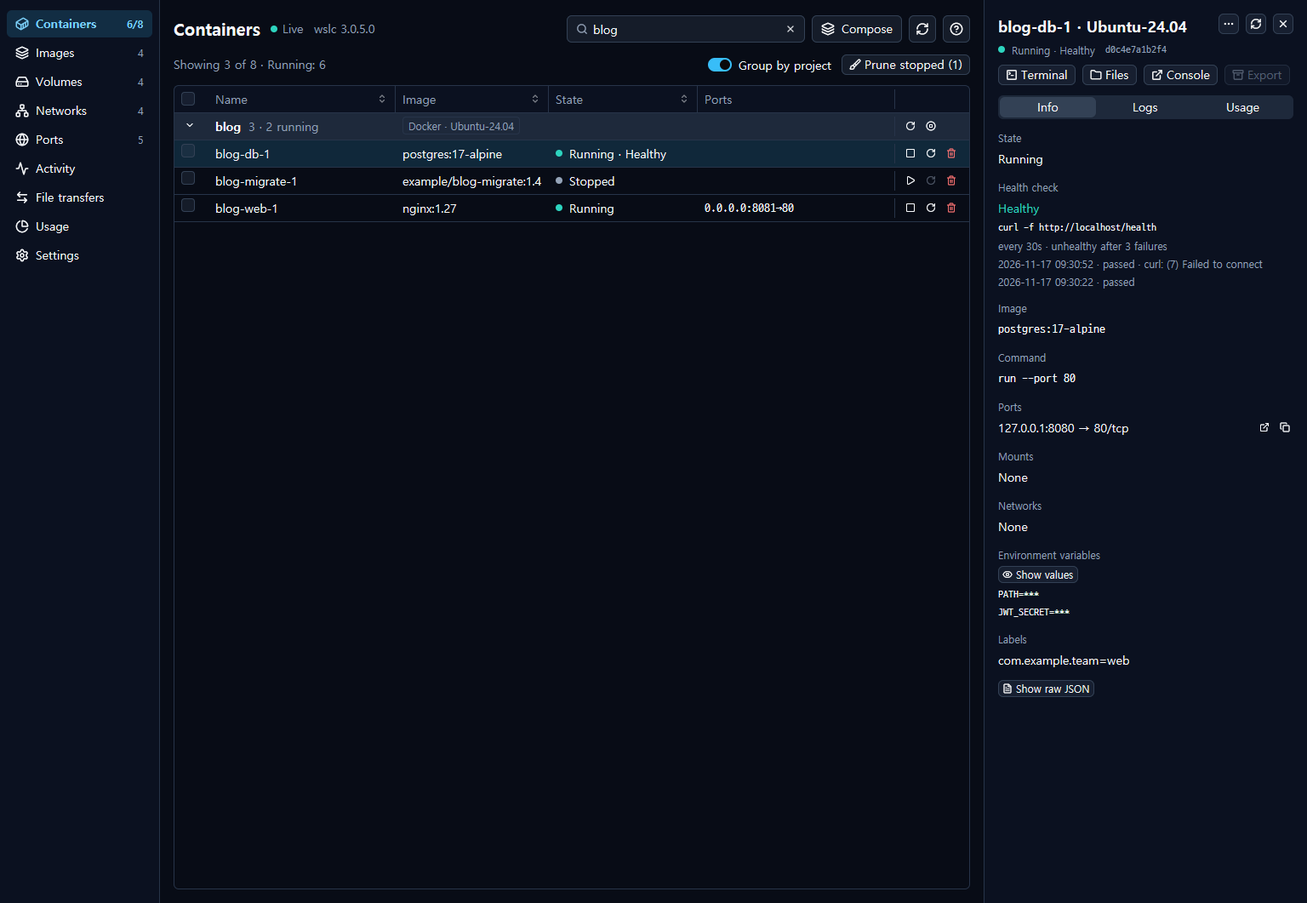
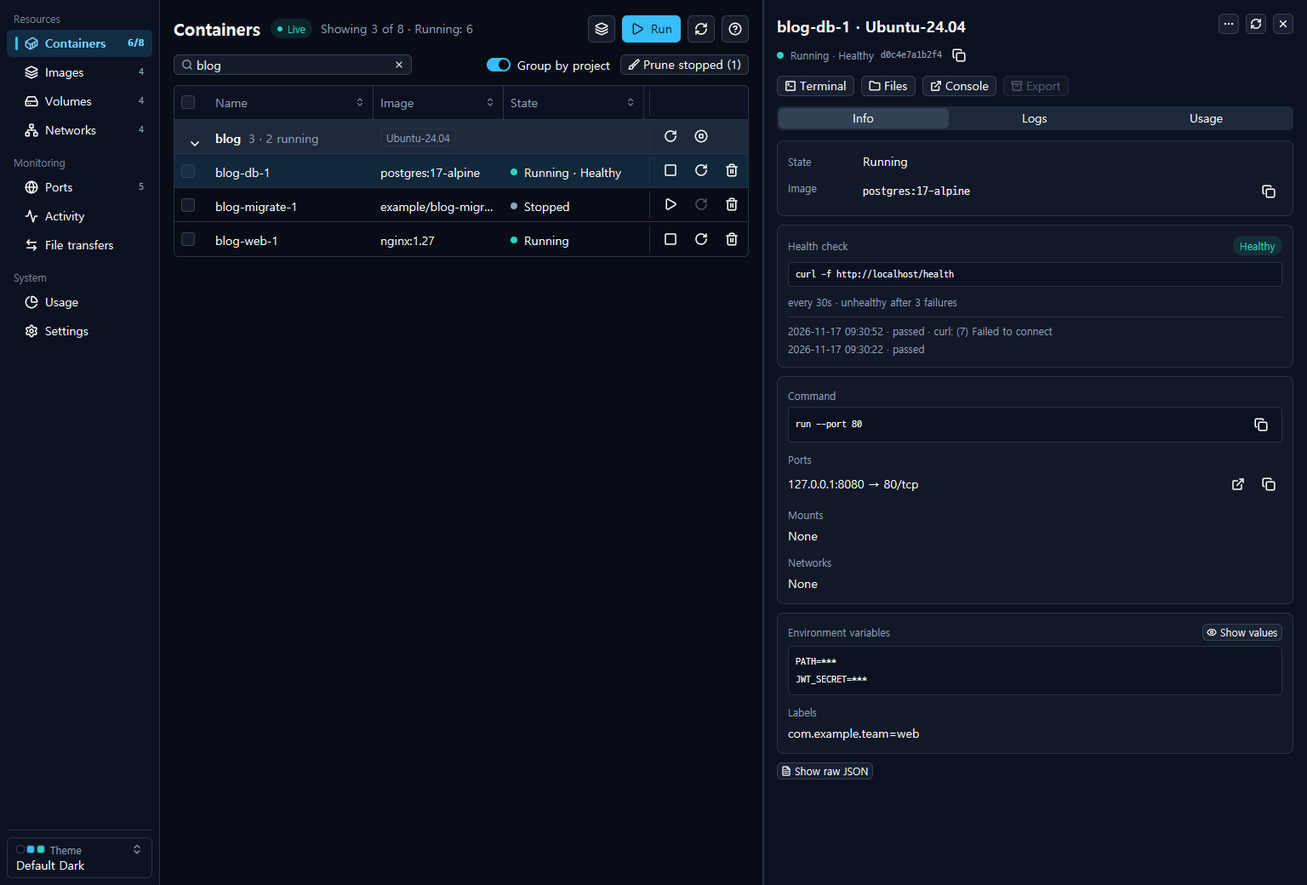
feat: refresh Haven Desktop screenshots and copy for the current app
Recapture the product screenshots (containers, files) and the ten
containers-help step images (EN/KO) from the current build: larger row
buttons, engine badges including wslc, the Run button, arrow-only
transfer buttons and the card-style details panel. Sample data stays on
the blog project; logs and usage come from a throwaway haven-uitest
container on a real wslc engine, removed afterwards.

Update the copy to match: Run button, wslc badge, resizable details
closed with Esc, arrow transfer buttons and the 15 color themes. Image
sizes follow the new captures (1536x1040 product shots).

diff --git a/src/haven-help/content.ts b/src/haven-help/content.ts
@@ -164,15 +164,15 @@ export const havenHelpContent: Record<HavenHelpLanguage, HavenHelpPageContent> =
               { id: "resources", title: "Images, volumes, and networks", body: "Browse images, volumes, and networks and remove resources you no longer need." },
               { id: "compose", title: "Compose projects", body: "Use a Compose file to start or stop a group of containers. Some Compose settings aren't supported." },
               { id: "files-shell", title: "Files and container shells", body: "Transfer files between Windows and containers and open a shell in a container." },
-              { id: "settings-diagnostics", title: "Settings and diagnostics", body: "Change app settings and prepare a copy of the diagnostic log to send to support." },
+              { id: "settings-diagnostics", title: "Settings and diagnostics", body: "Choose a color theme (5 light and 10 dark themes, or follow Windows), change app settings, and prepare a copy of the diagnostic log to send to support." },
             ],
           },
-          { id: "file-transfer-controls", type: "note", title: "Upload and download files", text: "In the file transfer window, select “→ Upload” to copy files from Windows to the container, or select “← Download” to copy them back. If files with the same names are already in the container, choose which ones to overwrite, then select “Upload N”, where N is the number of files to upload." },
+          { id: "file-transfer-controls", type: "note", title: "Upload and download files", text: "In the file transfer window, select the → button between the two lists to copy files from Windows to the container (upload), or the ← button to copy them back (download). Point at a button to see what it does. If files with the same names are already in the container, choose which ones to overwrite, then select “Upload N”, where N is the number of files to upload." },
           { id: "image-removal-guard", type: "warning", title: "Removing an image in use", text: "Haven won't remove an image that a container uses unless you select “Force remove even if containers use it” in the confirmation dialog." },
           { id: "tray-settings", type: "note", title: "Tray and startup settings", text: "In Haven Settings, turn on “Hide to the notification area (tray) when the window is closed” to keep the app running after you close its window. To start Haven without opening a window, turn on “Start at Windows sign-in (in the tray, no window)”. For the Microsoft Store version, open Windows Settings, select Apps, then select Startup to manage automatic startup instead." },
         ],
         sourceRefs: ["README.md#features", "README.md#where-the-app-keeps-its-files", "README.md#feedback-and-security", "README.md#disclaimer", "CHANGELOG.md#added"],
-        lastReviewedRevision: "75f2752cb4c7c2b8b674b252f0ff48c812ab4211",
+        lastReviewedRevision: "0a7cd9920a7521a1b68ddadde07607c60a79c23f",
       },
       {
         id: "containers-logs",
@@ -187,7 +187,7 @@ export const havenHelpContent: Record<HavenHelpLanguage, HavenHelpPageContent> =
             items: [
               { id: "wslc-ready", title: "wslc 3.0.5 or later", body: "Haven uses the wslc installation on your PC. If it's missing or older than 3.0.5, the app shows setup instructions." },
               { id: "container-list", title: "Container list", body: "Select the container you want to manage. The list includes stopped containers." },
-              { id: "docker-engine", title: "Docker Engine in WSL (optional)", body: "To manage containers from a Docker Engine in WSL, open Settings, select Docker engines, and enable the distribution. Its containers appear in the same list, marked with the distribution name. Docker Desktop is not supported." },
+              { id: "docker-engine", title: "Docker Engine in WSL (optional)", body: "To manage containers from a Docker Engine in WSL, open Settings, select Docker engines, and enable the distribution. Its containers appear in the same list, marked with the distribution name, and wslc containers are marked “wslc”. Docker Desktop is not supported." },
             ],
           },
           {
@@ -195,22 +195,22 @@ export const havenHelpContent: Record<HavenHelpLanguage, HavenHelpPageContent> =
             type: "steps",
             title: "Work with a container",
             items: [
-              { id: "find", title: "Find a container", body: "Open Containers. The list updates automatically. Use the “Search by name, image, state, group” field to find a container, or turn on “Group by project” to see related containers together.", image: { src: "/assets/products/haven-help/containers-find-en.png", alt: "Top of the Containers page with the search box and the Group by project switch outlined, above the containers of the blog project.", width: 1092, height: 262, caption: "Search the list, or group it by project." } },
-              { id: "control", title: "Start, stop, restart, or force-stop a container", body: "Use the buttons in a container's row to start, stop, restart, or remove it. To force-stop a container, even if it's the only one, check its box in the list, then select “Kill” on the selection bar.", image: { src: "/assets/products/haven-help/containers-control-en.png", alt: "Two selected containers. The selection bar above the list, with Start, Stop, Restart, Kill, Remove, and Clear selection, is outlined, and so are the stop, restart, and remove buttons at the end of each row.", width: 1092, height: 252, caption: "Row buttons act on one container; the selection bar acts on every checked container." } },
-              { id: "logs", title: "View live logs", body: "Open the container details and select Logs. Turn on “Follow” to see new lines as they arrive. Use “Search logs” to find a line. You can also copy the output or save it to a file.", image: { src: "/assets/products/haven-help/containers-logs-en.png", alt: "Logs tab of a running container, outlined along with the toolbar below it (Search logs box and the Follow, Timestamps, Copy, Save, and Clear buttons). Follow is on and timestamped INFO and WARN lines fill the view.", width: 640, height: 470, caption: "With Follow on, new lines appear as they arrive." } },
-              { id: "usage", title: "Check resource usage", body: "Select Usage in the container details to see current and recent CPU and memory usage.", image: { src: "/assets/products/haven-help/containers-usage-en.png", alt: "Usage tab of a running container. The tab and the CPU and Memory areas are outlined: CPU at 33.47% and memory at 3 MiB, each with a small chart of recent samples, followed by network, disk, and process counts.", width: 380, height: 560, caption: "Current CPU and memory, with the last few samples as a chart." } },
+              { id: "find", title: "Find a container", body: "Open Containers. The list updates automatically. Use the “Search by name, image, state, group” field to find a container, or turn on “Group by project” to see related containers together.", image: { src: "/assets/products/haven-help/containers-find-en.png", alt: "Top of the Containers page with the search box and the Group by project switch outlined, above the containers of the blog project.", width: 1096, height: 294, caption: "Search the list, or group it by project." } },
+              { id: "control", title: "Start, stop, restart, or force-stop a container", body: "To start a new container, select “Run” at the top right and enter an image. Use the buttons in a container's row to start, stop, restart, or remove it. To force-stop a container, even if it's the only one, check its box in the list, then select “Kill” on the selection bar.", image: { src: "/assets/products/haven-help/containers-control-en.png", alt: "Two selected containers. The selection bar above the list, with Start, Stop, Restart, Kill, Remove, and Clear selection, is outlined, and so are the stop, restart, and remove buttons at the end of each row.", width: 1096, height: 250, caption: "Row buttons act on one container; the selection bar acts on every checked container." } },
+              { id: "logs", title: "View live logs", body: "Open the container details and select Logs. Turn on “Follow” to see new lines as they arrive. Use “Search logs” to find a line. You can also copy the output or save it to a file. Drag the left edge of the details to resize them, and press Esc to close them.", image: { src: "/assets/products/haven-help/containers-logs-en.png", alt: "Logs tab of a running container, outlined along with the toolbar below it (Search logs box and the Follow, Timestamps, Copy, Save, and Clear buttons). Follow is on and timestamped INFO and WARN lines from a test container fill the view.", width: 491, height: 472, caption: "With Follow on, new lines appear as they arrive." } },
+              { id: "usage", title: "Check resource usage", body: "Select Usage in the container details to see current and recent CPU and memory usage.", image: { src: "/assets/products/haven-help/containers-usage-en.png", alt: "Usage tab of a running container. The tab and the CPU and Memory cards are outlined: CPU at 6.70% and memory at 4.6 MiB, each with its peak and a small chart of recent samples, followed by network and disk cards and the process count.", width: 491, height: 408, caption: "Current CPU and memory, with the last few samples as a chart." } },
             ],
           },
           { id: "verify", type: "note", title: "Check the result", text: "When the list refreshes, check the container's status and health check result. The Activity page records container starts and stops, along with exit codes when available. Haven can send Windows notifications when a container becomes unhealthy or stops unexpectedly. You can turn off each type of notification separately." },
-          { id: "verify-image", type: "image", src: "/assets/products/haven-help/containers-verify-en.png", alt: "Details of a running container. The Health check area is outlined: Healthy, the check command (curl -f http://localhost/health), and how often it runs (every 30s, unhealthy after 3 failures).", width: 380, height: 302, caption: "Health check status in the container details. The screenshots in these steps use sample or test containers." },
+          { id: "verify-image", type: "image", src: "/assets/products/haven-help/containers-verify-en.png", alt: "Details of a running container. The Health check area is outlined: Healthy, the check command (curl -f http://localhost/health), and how often it runs (every 30s, unhealthy after 3 failures).", width: 491, height: 370, caption: "Health check status in the container details. The screenshots in these steps use sample or test containers." },
           { id: "caution", type: "warning", title: "Before removing or cleaning up containers", text: "Haven asks for confirmation before removing containers or cleaning up stopped ones. Back up any data you need first. Cleanup applies only to wslc containers, not to Docker Engine containers in WSL." },
           { id: "recreate-settings", type: "note", title: "Change a container's settings", text: "In the container details, open the ⋯ menu and select “Recreate with the same settings” to change ports, environment variables, or mounts. Haven fills in the settings it can read from the existing container. Check the prefilled values and enter any changes before recreating it." },
           { id: "container-details-actions", type: "note", title: "Other actions in the container details", text: "Open the ⋯ menu in the container details. Choose “Save as image” to create an image from the container, “Change resource limits” to adjust CPU or memory limits without recreating it, or “Attach” to connect to the running container." },
           { id: "registry-network", type: "note", title: "When Haven uses the network", text: "Haven uses the network for registry operations, such as checking for image updates, pulling an image, or signing in to a registry." },
-          { id: "containers-screenshot", type: "image", src: "/assets/products/haven-containers.png", alt: "Haven Desktop showing the container list on the left and details for the selected container on the right", width: 1536, height: 1061 },
+          { id: "containers-screenshot", type: "image", src: "/assets/products/haven-containers.png", alt: "Haven Desktop showing the container list on the left and details for the selected container on the right", width: 1536, height: 1040 },
         ],
         sourceRefs: ["README.md#features", "README.md#requirements", "README.md#disclaimer", "docs/docker-users.md#command-names", "docs/docker-users.md#what-works-differently", "docs/docker-users.md#not-there-yet-and-what-to-do-instead", "docs/privacy.md#summary", "docs/privacy.md#what-the-app-connects-to", "CHANGELOG.md#added"],
-        lastReviewedRevision: "75f2752cb4c7c2b8b674b252f0ff48c812ab4211",
+        lastReviewedRevision: "0a7cd9920a7521a1b68ddadde07607c60a79c23f",
       },
       {
         id: "privacy-security-support",
@@ -245,7 +245,7 @@ export const havenHelpContent: Record<HavenHelpLanguage, HavenHelpPageContent> =
           { id: "draft-note", type: "note", title: "Note", text: "Publish only after a public build is available." },
           { id: "draft-warning", type: "warning", title: "Important", text: "Do not invent a download location or release date." },
           { id: "draft-code", type: "code", language: "powershell", caption: "Verified commands can be documented here", code: "# Add only a command tested against the public build" },
-          { id: "draft-image", type: "image", src: "/assets/products/haven-containers.png", alt: "Haven Desktop container list with a details panel", width: 1536, height: 1061, caption: "Replace with a task-specific screenshot and review the alt text before publishing." },
+          { id: "draft-image", type: "image", src: "/assets/products/haven-containers.png", alt: "Haven Desktop container list with a details panel", width: 1536, height: 1040, caption: "Replace with a task-specific screenshot and review the alt text before publishing." },
         ],
         sourceRefs: ["README.md#install"],
         lastReviewedRevision: "1fd347cb91b0fce96dcac9a5be076c8e07558d3b",
@@ -346,15 +346,15 @@ export const havenHelpContent: Record<HavenHelpLanguage, HavenHelpPageContent> =
               { id: "resources", title: "이미지·볼륨·네트워크", body: "이미지, 볼륨, 네트워크를 확인하고 더 이상 쓰지 않는 자원을 삭제할 수 있습니다." },
               { id: "compose", title: "Compose 프로젝트", body: "여러 컨테이너를 하나의 구성으로 정의하는 Compose 파일을 열어 프로젝트를 시작하거나 종료할 수 있습니다. 일부 설정은 지원하지 않습니다." },
               { id: "files-shell", title: "파일과 컨테이너 셸", body: "Windows와 컨테이너 사이에서 파일을 옮기고 앱에서 컨테이너 셸을 엽니다." },
-              { id: "settings-diagnostics", title: "설정과 진단", body: "앱 설정을 바꾸거나 문제를 문의할 때 보낼 진단 로그 사본을 만들 수 있습니다." },
+              { id: "settings-diagnostics", title: "설정과 진단", body: "색 테마(라이트 5가지·다크 10가지, 또는 Windows 설정 따름)를 고르고, 앱 설정을 바꾸거나 문제를 문의할 때 보낼 진단 로그 사본을 만들 수 있습니다." },
             ],
           },
-          { id: "file-transfer-controls", type: "note", title: "파일 올리기와 내려받기", text: "파일 창에서 Windows의 파일을 컨테이너로 보내려면 ‘→ 올리기’ 버튼을 누릅니다. 컨테이너의 파일을 Windows로 가져오려면 ‘← 내려받기’ 버튼을 누릅니다. 컨테이너에 이름이 같은 파일이 있으면 덮어쓸 파일을 선택한 뒤 ‘N개 올리기’ 버튼을 누릅니다. N은 올릴 파일의 개수입니다." },
+          { id: "file-transfer-controls", type: "note", title: "파일 올리기와 내려받기", text: "파일 창에서 Windows의 파일을 컨테이너로 보내려면(올리기) 두 목록 사이의 → 버튼을 누릅니다. 컨테이너의 파일을 Windows로 가져오려면(내려받기) ← 버튼을 누릅니다. 버튼에 마우스를 올리면 하는 일이 표시됩니다. 컨테이너에 이름이 같은 파일이 있으면 덮어쓸 파일을 선택한 뒤 ‘N개 올리기’ 버튼을 누릅니다. N은 올릴 파일의 개수입니다." },
           { id: "image-removal-guard", type: "warning", title: "사용 중인 이미지 삭제", text: "컨테이너가 사용하는 이미지는 삭제 확인 창에서 ‘컨테이너가 쓰고 있어도 강제로 삭제’를 직접 선택한 경우에만 삭제할 수 있습니다." },
           { id: "tray-settings", type: "note", title: "트레이와 자동 시작 설정", text: "Haven 설정에서 ‘창을 닫으면 알림 영역(트레이)으로 숨기기’를 켜면 창을 닫아도 앱이 계속 실행됩니다. ‘Windows 로그인 때 자동 시작(창 없이 트레이로)’을 켜면 로그인할 때 창을 열지 않고 앱이 시작됩니다. Microsoft Store 버전의 자동 시작은 Haven 설정 대신 Windows 설정의 ‘앱’에 있는 ‘시작 프로그램’에서 설정합니다." },
         ],
         sourceRefs: ["README.ko.md#기능", "README.md#features", "README.ko.md#앱이-파일을-두는-곳", "README.ko.md#문제-신고와-보안", "README.ko.md#면책-조항", "CHANGELOG.md#added"],
-        lastReviewedRevision: "75f2752cb4c7c2b8b674b252f0ff48c812ab4211",
+        lastReviewedRevision: "0a7cd9920a7521a1b68ddadde07607c60a79c23f",
       },
       {
         id: "containers-logs",
@@ -369,7 +369,7 @@ export const havenHelpContent: Record<HavenHelpLanguage, HavenHelpPageContent> =
             items: [
               { id: "wslc-ready", title: "wslc 3.0.5 이상", body: "Haven은 PC에 설치된 wslc를 사용합니다. wslc가 없거나 버전이 3.0.5보다 낮으면 앱에서 설정 방법을 안내합니다." },
               { id: "container-list", title: "컨테이너 목록", body: "목록에서 관리할 컨테이너를 선택합니다. 중지된 컨테이너도 목록에 표시됩니다." },
-              { id: "docker-engine", title: "WSL의 Docker Engine(선택 사항)", body: "WSL에 설치한 Docker Engine의 컨테이너를 관리하려면 설정에서 ‘Docker 엔진’을 열고 해당 배포판을 선택합니다. 그 배포판의 컨테이너는 같은 목록에 배포판 이름과 함께 표시됩니다. Docker Desktop은 지원하지 않습니다." },
+              { id: "docker-engine", title: "WSL의 Docker Engine(선택 사항)", body: "WSL에 설치한 Docker Engine의 컨테이너를 관리하려면 설정에서 ‘Docker 엔진’을 열고 해당 배포판을 선택합니다. 그 배포판의 컨테이너는 같은 목록에 배포판 이름과 함께 표시되고, wslc 컨테이너에는 ‘wslc’ 표시가 붙습니다. Docker Desktop은 지원하지 않습니다." },
             ],
           },
           {
@@ -377,22 +377,22 @@ export const havenHelpContent: Record<HavenHelpLanguage, HavenHelpPageContent> =
             type: "steps",
             title: "컨테이너 관리 순서",
             items: [
-              { id: "find", title: "컨테이너 찾기", body: "컨테이너 화면을 열면 목록이 자동으로 갱신됩니다. ‘이름·이미지·상태·그룹으로 찾기’ 검색창을 이용하거나 ‘프로젝트별로 묶기’를 켜서 같은 프로젝트의 컨테이너를 모아 볼 수 있습니다.", image: { src: "/assets/products/haven-help/containers-find-ko.png", alt: "컨테이너 화면 위쪽. 검색창과 ‘프로젝트별로 묶기’ 스위치에 테두리가 있고, 아래에 blog 프로젝트의 컨테이너가 묶여 있습니다.", width: 1092, height: 262, caption: "검색으로 좁히거나 프로젝트별로 묶어 봅니다." } },
-              { id: "control", title: "시작·중지·다시 시작·강제 종료", body: "시작, 중지, 다시 시작, 삭제는 컨테이너 목록에서 해당 행의 버튼을 누릅니다. 강제 종료는 행에 버튼이 없습니다. 컨테이너를 하나만 강제 종료할 때도 목록에서 해당 컨테이너를 체크한 뒤 선택 막대의 ‘강제 종료’ 버튼을 누릅니다.", image: { src: "/assets/products/haven-help/containers-control-ko.png", alt: "컨테이너 두 개를 체크한 화면. 목록 위 선택 막대(시작·중지·재시작·강제 종료·삭제·선택 해제)와 각 행 끝의 중지·재시작·삭제 버튼에 테두리가 있습니다.", width: 1092, height: 252, caption: "행의 버튼은 그 컨테이너 하나에, 선택 막대는 체크한 컨테이너 전부에 적용됩니다." } },
-              { id: "logs", title: "실시간 로그 보기", body: "컨테이너 상세 화면에서 ‘로그’를 선택합니다. ‘따라가기’를 켜면 새 로그가 기록되는 대로 표시됩니다. ‘로그 검색’으로 필요한 내용을 찾고, 로그를 복사하거나 파일로 저장할 수 있습니다.", image: { src: "/assets/products/haven-help/containers-logs-ko.png", alt: "실행 중인 컨테이너의 ‘로그’ 탭. 탭과 그 아래 도구 막대(로그 검색 칸, 따라가기·시각·복사·저장·지우기 버튼)에 테두리가 있고, 따라가기가 켜진 채 시각이 붙은 INFO·WARN 로그가 이어집니다.", width: 640, height: 470, caption: "‘따라가기’를 켜면 새 로그가 들어오는 대로 표시됩니다." } },
-              { id: "usage", title: "자원 사용량 보기", body: "컨테이너 상세 화면에서 ‘사용량’을 선택하면 현재 CPU·메모리 사용량과 최근 기록을 확인할 수 있습니다.", image: { src: "/assets/products/haven-help/containers-usage-ko.png", alt: "실행 중인 컨테이너의 ‘사용량’ 탭. 탭과 CPU·메모리 영역에 테두리가 있고, CPU 40.23%와 메모리 3.2 MiB가 최근 기록 그래프와 함께 보입니다. 아래에는 네트워크, 디스크, 프로세스 수가 있습니다.", width: 380, height: 560, caption: "현재 CPU·메모리 사용량과 최근 기록 그래프입니다." } },
+              { id: "find", title: "컨테이너 찾기", body: "컨테이너 화면을 열면 목록이 자동으로 갱신됩니다. ‘이름·이미지·상태·그룹으로 찾기’ 검색창을 이용하거나 ‘프로젝트별로 묶기’를 켜서 같은 프로젝트의 컨테이너를 모아 볼 수 있습니다.", image: { src: "/assets/products/haven-help/containers-find-ko.png", alt: "컨테이너 화면 위쪽. 검색창과 ‘프로젝트별로 묶기’ 스위치에 테두리가 있고, 아래에 blog 프로젝트의 컨테이너가 묶여 있습니다.", width: 1096, height: 294, caption: "검색으로 좁히거나 프로젝트별로 묶어 봅니다." } },
+              { id: "control", title: "시작·중지·다시 시작·강제 종료", body: "새 컨테이너는 화면 오른쪽 위의 ‘실행’ 버튼을 누르고 이미지를 입력해 실행합니다. 시작, 중지, 다시 시작, 삭제는 컨테이너 목록에서 해당 행의 버튼을 누릅니다. 강제 종료는 행에 버튼이 없습니다. 컨테이너를 하나만 강제 종료할 때도 목록에서 해당 컨테이너를 체크한 뒤 선택 막대의 ‘강제 종료’ 버튼을 누릅니다.", image: { src: "/assets/products/haven-help/containers-control-ko.png", alt: "컨테이너 두 개를 체크한 화면. 목록 위 선택 막대(시작·중지·재시작·강제 종료·삭제·선택 해제)와 각 행 끝의 중지·재시작·삭제 버튼에 테두리가 있습니다.", width: 1096, height: 250, caption: "행의 버튼은 그 컨테이너 하나에, 선택 막대는 체크한 컨테이너 전부에 적용됩니다." } },
+              { id: "logs", title: "실시간 로그 보기", body: "컨테이너 상세 화면에서 ‘로그’를 선택합니다. ‘따라가기’를 켜면 새 로그가 기록되는 대로 표시됩니다. ‘로그 검색’으로 필요한 내용을 찾고, 로그를 복사하거나 파일로 저장할 수 있습니다. 상세 화면은 왼쪽 가장자리를 끌어 폭을 바꾸고, Esc를 누르면 닫힙니다.", image: { src: "/assets/products/haven-help/containers-logs-ko.png", alt: "실행 중인 컨테이너의 ‘로그’ 탭. 탭과 그 아래 도구 막대(로그 검색 칸, 따라가기·시각·복사·저장·지우기 버튼)에 테두리가 있고, 따라가기가 켜진 채 시험용 컨테이너의 시각이 붙은 INFO·WARN 로그가 이어집니다.", width: 491, height: 472, caption: "‘따라가기’를 켜면 새 로그가 들어오는 대로 표시됩니다." } },
+              { id: "usage", title: "자원 사용량 보기", body: "컨테이너 상세 화면에서 ‘사용량’을 선택하면 현재 CPU·메모리 사용량과 최근 기록을 확인할 수 있습니다.", image: { src: "/assets/products/haven-help/containers-usage-ko.png", alt: "실행 중인 컨테이너의 ‘사용량’ 탭. 탭과 CPU·메모리 카드에 테두리가 있고, CPU 6.70%와 메모리 4.6 MiB가 최댓값, 최근 기록 그래프와 함께 보입니다. 아래에는 네트워크·디스크 카드와 프로세스 수가 있습니다.", width: 491, height: 408, caption: "현재 CPU·메모리 사용량과 최근 기록 그래프입니다." } },
             ],
           },
           { id: "verify", type: "note", title: "작업 결과 확인", text: "목록이 갱신되면 컨테이너가 실행 중인지, 정상적으로 작동하는지 확인할 수 있습니다. 활동 화면에는 시작·종료 내역이 남고, 종료 코드도 확인할 수 있습니다. 컨테이너에 이상이 생기거나 예기치 않게 중지되면 Windows 알림을 받을 수 있습니다. 알림은 종류별로 끌 수 있습니다." },
-          { id: "verify-image", type: "image", src: "/assets/products/haven-help/containers-verify-ko.png", alt: "실행 중인 컨테이너의 상세 화면. 상태 검사 영역에 테두리가 있고, ‘정상’과 검사 명령(curl -f http://localhost/health), 검사 주기(30초 간격, 3번 실패 시 비정상)가 보입니다.", width: 380, height: 302, caption: "컨테이너 상세 화면의 상태 검사 결과입니다. 단계별 화면은 예시·시험용 컨테이너로 만들었습니다." },
+          { id: "verify-image", type: "image", src: "/assets/products/haven-help/containers-verify-ko.png", alt: "실행 중인 컨테이너의 상세 화면. 상태 검사 영역에 테두리가 있고, ‘정상’과 검사 명령(curl -f http://localhost/health), 검사 주기(30초 간격, 3번 실패 시 비정상)가 보입니다.", width: 491, height: 370, caption: "컨테이너 상세 화면의 상태 검사 결과입니다. 단계별 화면은 예시·시험용 컨테이너로 만들었습니다." },
           { id: "caution", type: "warning", title: "컨테이너를 삭제하거나 정리하기 전에", text: "컨테이너를 삭제하거나 중지된 컨테이너를 정리할 때는 Haven이 먼저 확인을 요청합니다. 필요한 데이터는 미리 백업합니다. 정리 기능은 wslc 컨테이너에만 적용되며, WSL에 설치한 Docker Engine의 컨테이너는 정리하지 않습니다." },
           { id: "recreate-settings", type: "note", title: "컨테이너 설정 바꾸기", text: "포트, 환경 변수, 마운트를 바꾸려면 컨테이너 상세 화면에서 ⋯ 메뉴를 열고 ‘같은 설정으로 다시 만들기’를 선택합니다. 앱이 읽어 온 기존 설정이 입력란에 표시됩니다. 다시 만들기 전에 기존 값을 확인하고 변경할 값을 입력합니다." },
           { id: "container-details-actions", type: "note", title: "컨테이너 상세 메뉴의 다른 기능", text: "컨테이너 상세 화면에서 ⋯ 메뉴를 엽니다. ‘이미지로 만들기’를 선택하면 컨테이너를 이미지로 저장할 수 있습니다. ‘자원 제한 바꾸기’를 선택하면 컨테이너를 다시 만들지 않고 CPU나 메모리 제한을 바꿀 수 있습니다. ‘연결(attach)’을 선택하면 실행 중인 컨테이너에 연결할 수 있습니다." },
           { id: "registry-network", type: "note", title: "네트워크를 사용하는 경우", text: "Haven은 이미지 업데이트를 확인하거나 이미지를 받는 등 레지스트리에서 작업할 때 네트워크를 사용합니다. 레지스트리에 로그인할 때도 네트워크에 연결합니다." },
-          { id: "containers-screenshot", type: "image", src: "/assets/products/haven-containers.png", alt: "왼쪽에 컨테이너 목록, 오른쪽에 선택한 컨테이너의 상세 정보가 보이는 Haven Desktop 화면", width: 1536, height: 1061 },
+          { id: "containers-screenshot", type: "image", src: "/assets/products/haven-containers.png", alt: "왼쪽에 컨테이너 목록, 오른쪽에 선택한 컨테이너의 상세 정보가 보이는 Haven Desktop 화면", width: 1536, height: 1040 },
         ],
         sourceRefs: ["README.ko.md#기능", "README.ko.md#요구-사항", "README.ko.md#면책-조항", "docs/docker-users.ko.md#명령-이름", "docs/docker-users.ko.md#다르게-동작하는-것", "docs/docker-users.ko.md#아직-없는-것과-대신할-방법", "docs/privacy.ko.md#요약", "docs/privacy.ko.md#앱이-접속하는-곳", "CHANGELOG.md#added"],
-        lastReviewedRevision: "75f2752cb4c7c2b8b674b252f0ff48c812ab4211",
+        lastReviewedRevision: "0a7cd9920a7521a1b68ddadde07607c60a79c23f",
       },
       {
         id: "privacy-security-support",
@@ -426,7 +426,7 @@ export const havenHelpContent: Record<HavenHelpLanguage, HavenHelpPageContent> =
           { id: "draft-note", type: "note", title: "참고", text: "공개 빌드가 준비된 뒤에만 게시합니다." },
           { id: "draft-warning", type: "warning", title: "주의", text: "다운로드 위치나 출시일을 추정해서 쓰지 않습니다." },
           { id: "draft-code", type: "code", language: "powershell", caption: "검증한 명령을 이곳에 기록할 수 있습니다", code: "# 공개 빌드에서 직접 확인한 명령만 추가합니다" },
-          { id: "draft-image", type: "image", src: "/assets/products/haven-containers.png", alt: "컨테이너 목록과 상세 패널이 보이는 Haven Desktop 화면", width: 1536, height: 1061, caption: "게시 전에 작업에 맞는 화면으로 교체하고 대체 텍스트를 다시 확인합니다." },
+          { id: "draft-image", type: "image", src: "/assets/products/haven-containers.png", alt: "컨테이너 목록과 상세 패널이 보이는 Haven Desktop 화면", width: 1536, height: 1040, caption: "게시 전에 작업에 맞는 화면으로 교체하고 대체 텍스트를 다시 확인합니다." },
         ],
         sourceRefs: ["README.ko.md#설치"],
         lastReviewedRevision: "1fd347cb91b0fce96dcac9a5be076c8e07558d3b",

diff --git a/src/content.ts b/src/content.ts
@@ -63,7 +63,7 @@ export const copy = {
         points: [
           "Start, stop, and inspect containers with live logs and real-time CPU and memory metrics.",
           "Run Compose files and transfer files directly between Windows and your containers.",
-          "Open an interactive container shell right in the app, with full English and Korean UI support.",
+          "Open an interactive container shell right in the app, in English or Korean, with 15 light and dark color themes.",
         ],
         note: "Coming to the Microsoft Store.",
         disclaimer: "Haven Desktop is an independent CELLAXON product. It is not affiliated with, endorsed, or supported by Microsoft.",
@@ -182,7 +182,7 @@ export const copy = {
         points: [
           "컨테이너를 시작·중지하고 실시간 로그와 CPU·메모리 사용량을 한눈에 확인합니다.",
           "Compose 구성을 바로 실행하고, Windows와 컨테이너 간에 파일을 손쉽게 주고받습니다.",
-          "앱 안에서 컨테이너 셸을 바로 열어 작업할 수 있으며, 한국어와 영어 UI를 모두 지원합니다.",
+          "앱 안에서 컨테이너 셸을 바로 열어 작업할 수 있으며, 한국어·영어 UI와 라이트·다크 색 테마 15가지를 지원합니다.",
         ],
         note: "Microsoft Store 출시를 준비하고 있습니다.",
         disclaimer: "Haven Desktop은 CELLAXON이 독자 개발한 앱으로, Microsoft와 무관하며 Microsoft가 보증하거나 지원하는 제품이 아닙니다.",

diff --git a/src/App.tsx b/src/App.tsx
@@ -371,7 +371,7 @@ function HavenScreens({ language, labels }: { language: Language; labels: ZoomLa
             alt={index === active ? haven.mediaAlt[screen.id] : ""}
             aria-hidden={index === active ? undefined : true}
             width="1536"
-            height="1061"
+            height="1040"
             loading="lazy"
           />
         ))}

diff --git a/src/haven-help/HavenHelpApp.tsx b/src/haven-help/HavenHelpApp.tsx
@@ -199,7 +199,7 @@ export default function HavenHelpApp() {
                 src="/assets/products/haven-containers.png"
                 alt={content.hero.mediaAlt}
                 width="1536"
-                height="1061"
+                height="1040"
               />
             </figure>
           </div>
